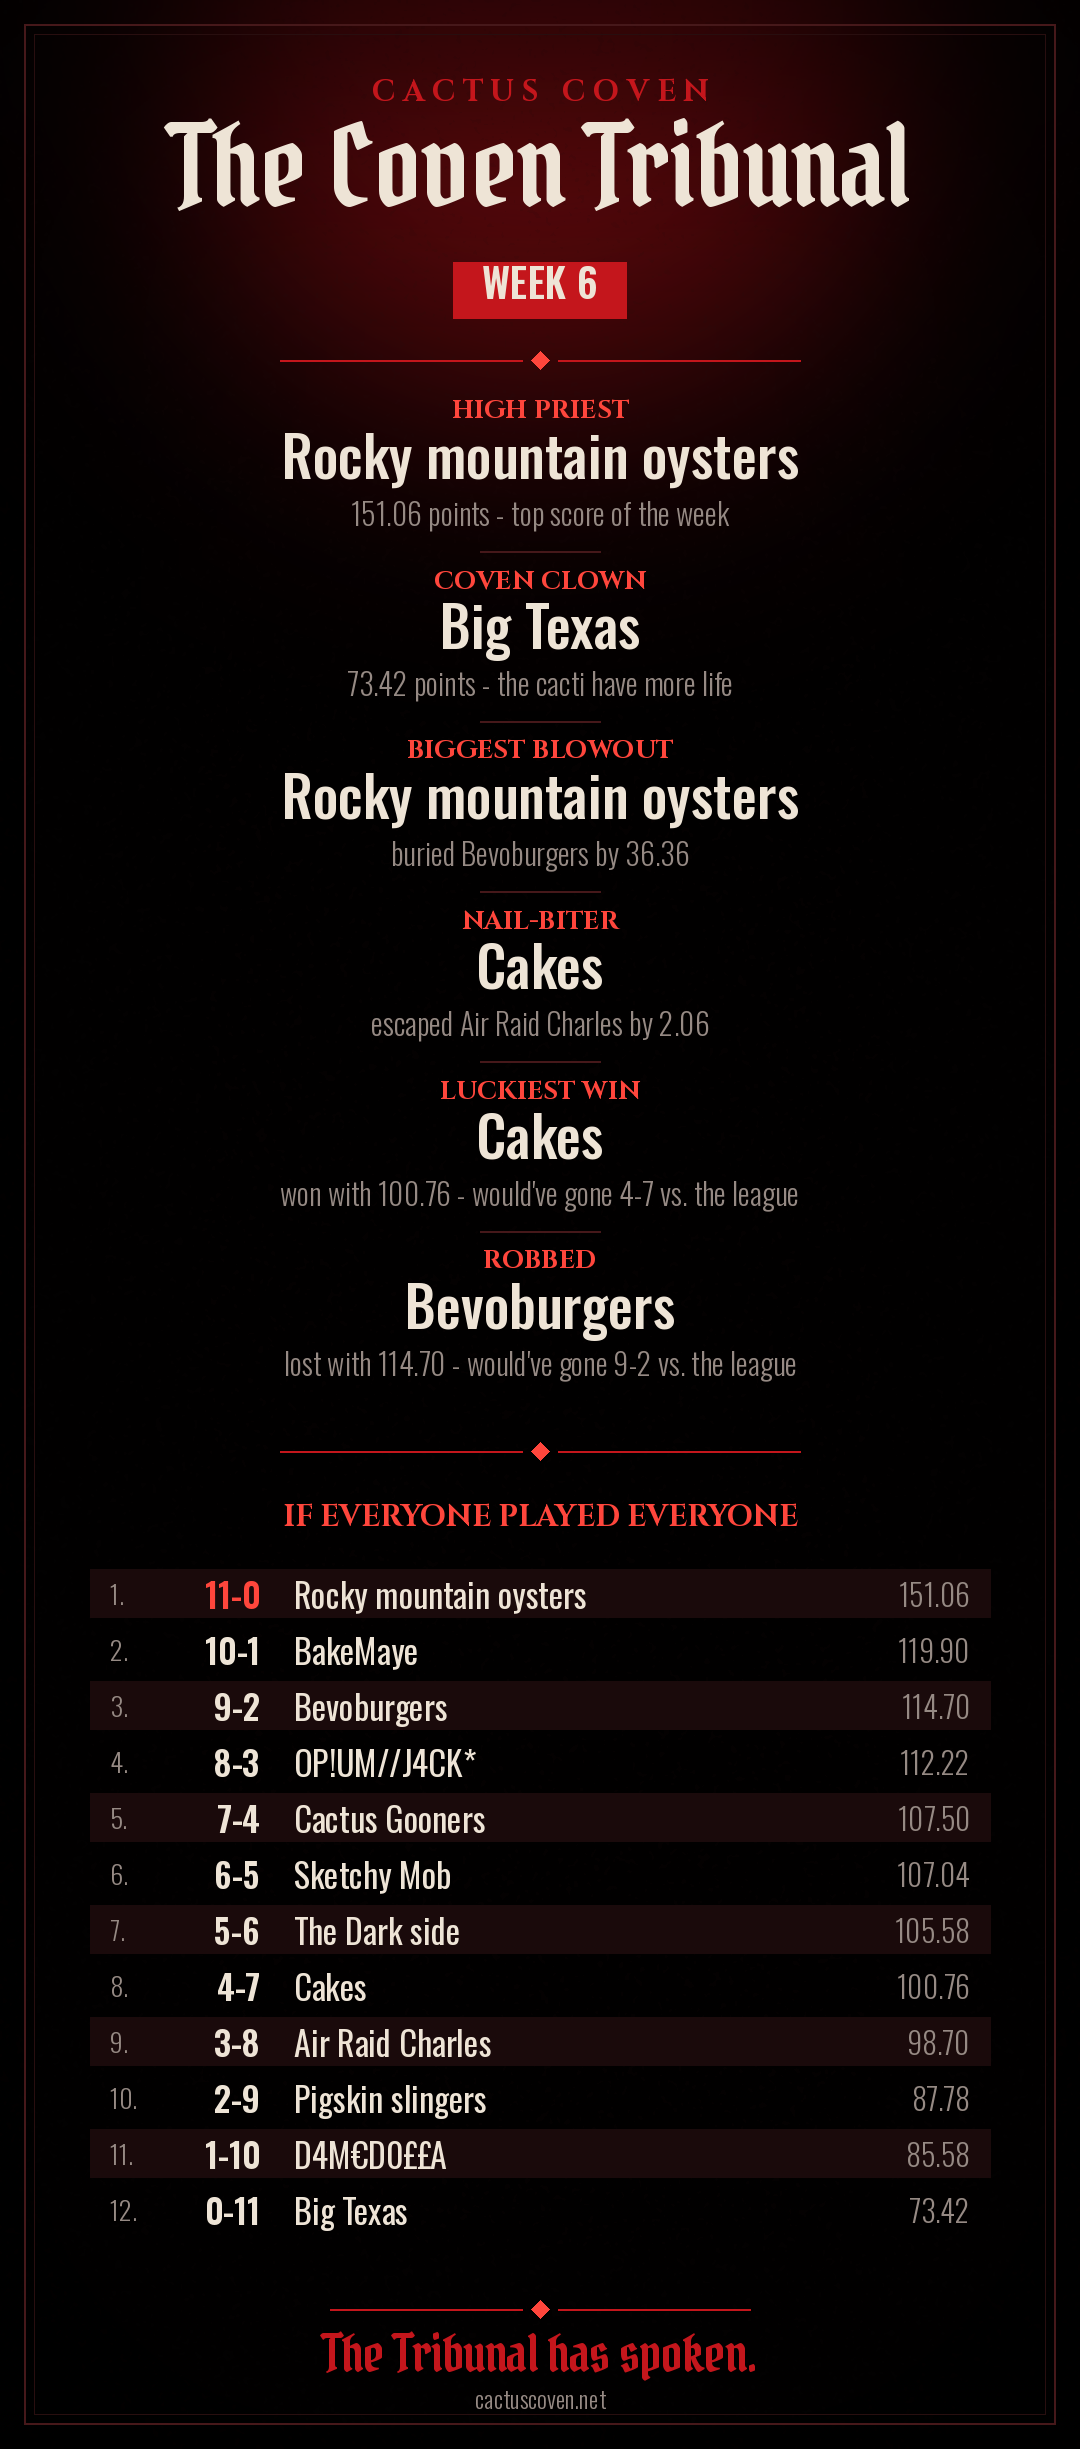
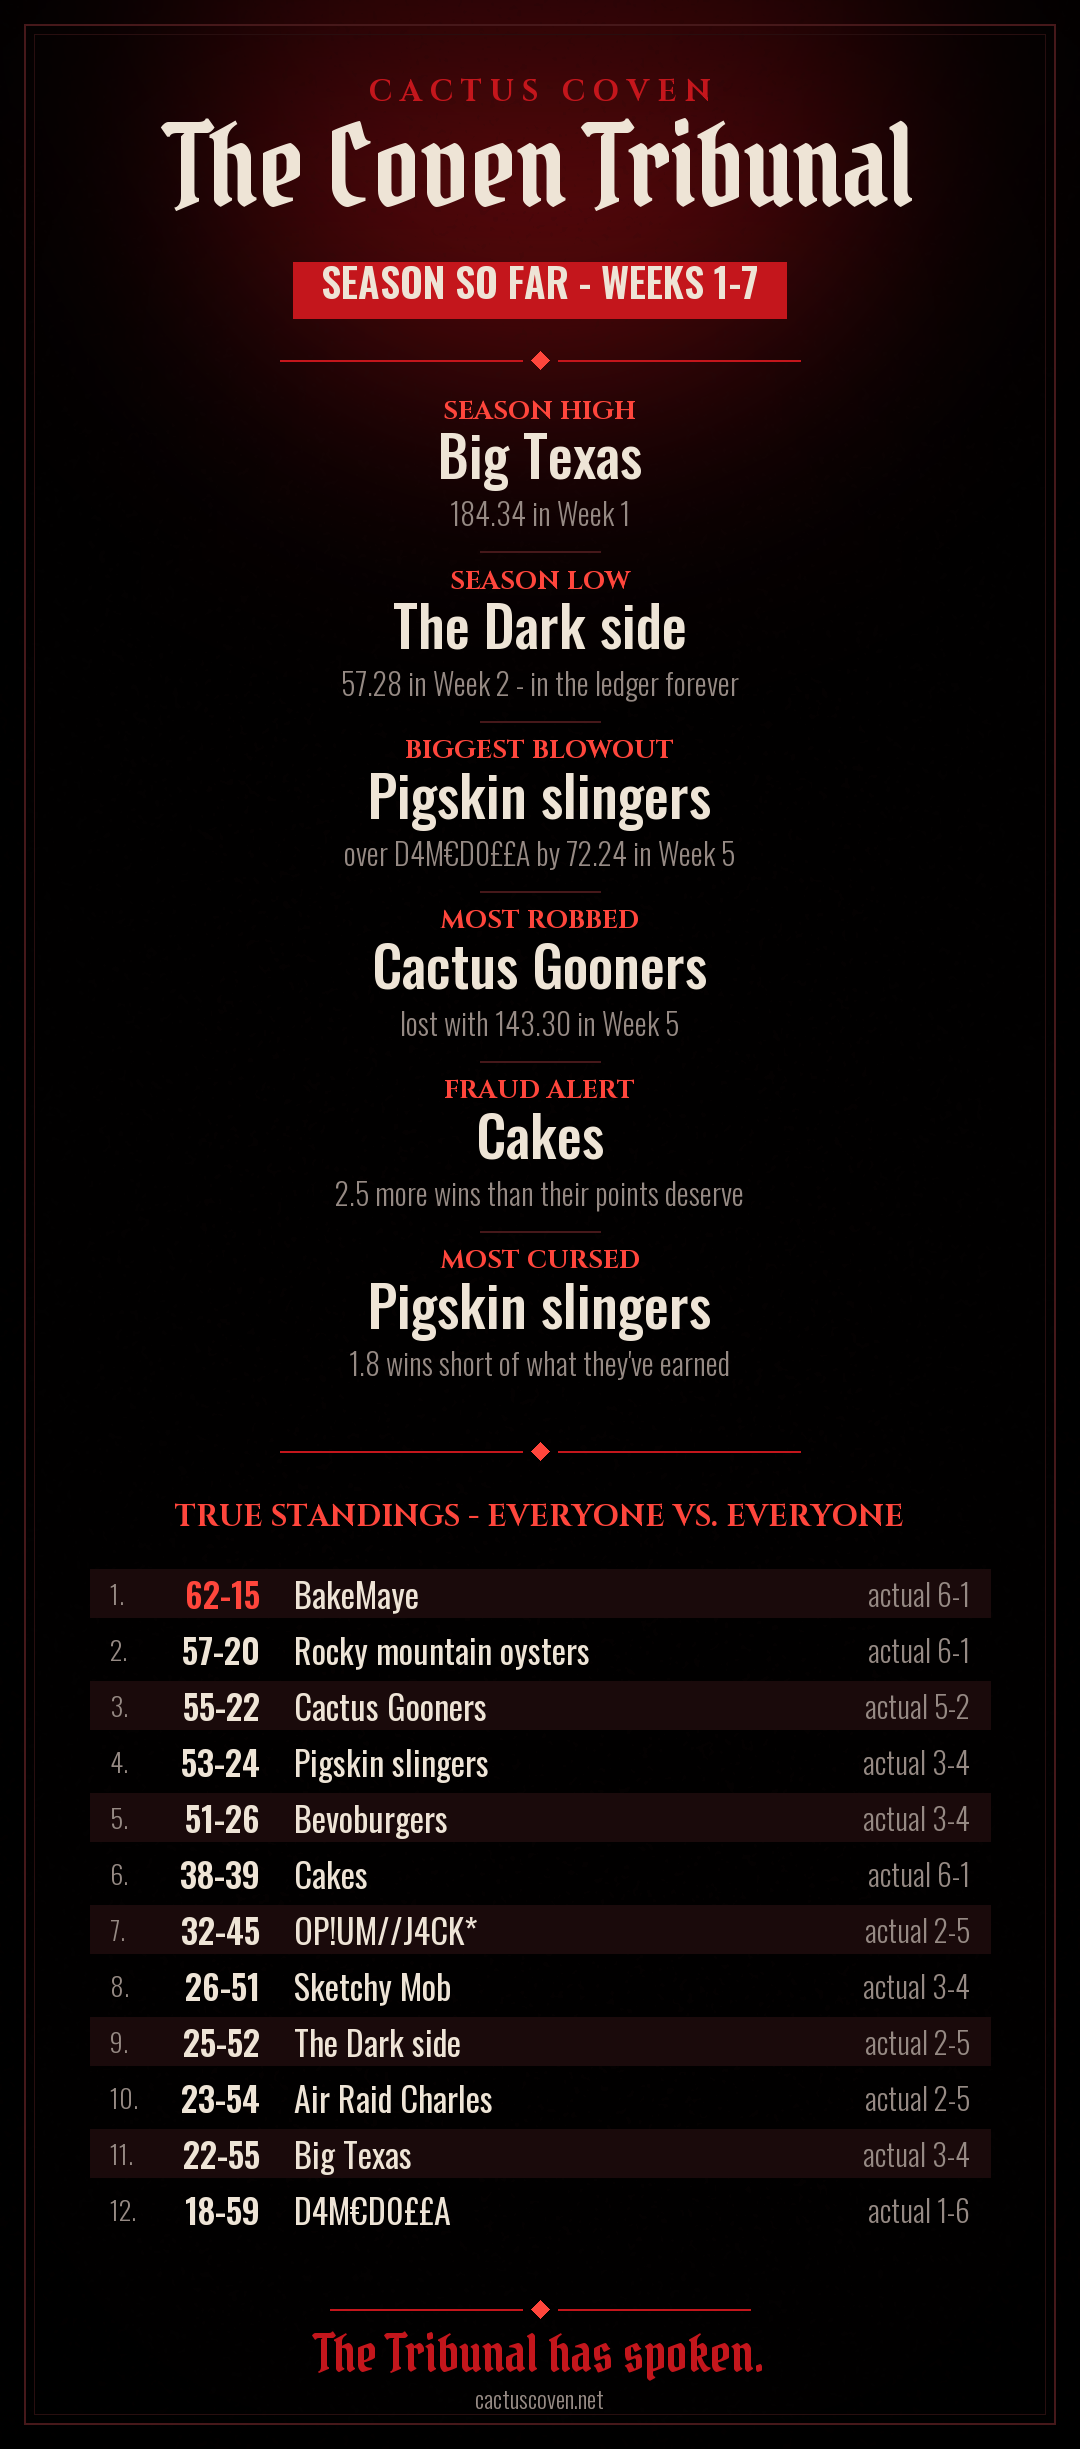
Tribunal: Season So Far - Weeks 1-7

diff --git a/tribunal/index.html b/tribunal/index.html
@@ -4,10 +4,10 @@
   <meta charset="utf-8">
   <meta name="viewport" content="width=device-width, initial-scale=1">
   <title>The Coven Tribunal | Cactus Coven</title>
-  <meta name="description" content="Weekly judgment for the Cactus Coven. Week 6 is in.">
-  <meta property="og:title" content="The Coven Tribunal - Week 6">
+  <meta name="description" content="Weekly judgment for the Cactus Coven. Season So Far - Weeks 1-7 is in.">
+  <meta property="og:title" content="The Coven Tribunal - Season So Far - Weeks 1-7">
   <meta property="og:description" content="The ledger has been read. Judgment follows.">
-  <meta property="og:image" content="https://cactuscoven.net/tribunal/week-6.png">
+  <meta property="og:image" content="https://cactuscoven.net/tribunal/season-so-far.png">
   <meta property="og:url" content="https://cactuscoven.net/tribunal/">
   <meta property="og:type" content="website">
   <meta name="twitter:card" content="summary_large_image">
@@ -54,134 +54,134 @@
   <main>
     <div class="kicker">CACTUS COVEN</div>
     <h1>The Coven Tribunal</h1>
-    <span class="tag">WEEK 6</span>
-    <a href="week-6.png" target="_blank"><img class="latest" src="week-6.png" alt="Week 6 awards"></a>
+    <span class="tag">SEASON SO FAR - WEEKS 1-7</span>
+    <a href="season-so-far.png" target="_blank"><img class="latest" src="season-so-far.png" alt="Season So Far - Weeks 1-7 awards"></a>
 
     <h2>Standings</h2>
-    <p class="sub">Weeks 1-6 &middot; All-Play = record vs. every team, every week &middot; Luck = actual wins minus all-play pace</p>
+    <p class="sub">Weeks 1-7 &middot; All-Play = record vs. every team, every week &middot; Luck = actual wins minus all-play pace</p>
     <div class="tbl">
       <table>
         <thead><tr><th></th><th class="tm">Team</th><th>W-L</th><th>PF</th><th class="wide">PA</th><th>All-Play</th><th>Luck</th><th class="wide">Strk</th></tr></thead>
         <tbody>
         <tr>
           <td class="rk">1</td>
-          <td class="tm">Cakes</td>
-          <td class="rec">6-0</td>
-          <td>707.76</td>
-          <td class="wide">622.28</td>
-          <td>35-31</td>
-          <td class="up">+2.8</td>
-          <td class="wide">W6</td>
+          <td class="tm">Rocky mountain oysters</td>
+          <td class="rec">6-1</td>
+          <td>912.02</td>
+          <td class="wide">832.18</td>
+          <td>57-20</td>
+          <td class="up">+0.8</td>
+          <td class="wide">W5</td>
         </tr>
         <tr>
           <td class="rk">2</td>
-          <td class="tm">Rocky mountain oysters</td>
-          <td class="rec">5-1</td>
-          <td>800.22</td>
-          <td class="wide">725.36</td>
-          <td>49-17</td>
-          <td class="up">+0.5</td>
+          <td class="tm">BakeMaye</td>
+          <td class="rec">6-1</td>
+          <td>905.16</td>
+          <td class="wide">751.52</td>
+          <td>62-15</td>
+          <td class="up">+0.4</td>
           <td class="wide">W4</td>
         </tr>
         <tr>
           <td class="rk">3</td>
-          <td class="tm">BakeMaye</td>
-          <td class="rec">5-1</td>
-          <td>775.32</td>
-          <td class="wide">641.50</td>
-          <td>51-15</td>
-          <td class="up">+0.4</td>
-          <td class="wide">W3</td>
+          <td class="tm">Cakes</td>
+          <td class="rec">6-1</td>
+          <td>814.58</td>
+          <td class="wide">734.08</td>
+          <td>38-39</td>
+          <td class="up">+2.5</td>
+          <td class="wide">L1</td>
         </tr>
         <tr>
           <td class="rk">4</td>
           <td class="tm">Cactus Gooners</td>
-          <td class="rec">4-2</td>
-          <td>784.56</td>
-          <td class="wide">731.10</td>
-          <td>46-20</td>
-          <td class="down">-0.2</td>
-          <td class="wide">L2</td>
+          <td class="rec">5-2</td>
+          <td>900.18</td>
+          <td class="wide">807.32</td>
+          <td>55-22</td>
+          <td class="">+0.0</td>
+          <td class="wide">W1</td>
         </tr>
         <tr>
           <td class="rk">5</td>
-          <td class="tm">Bevoburgers</td>
-          <td class="rec">3-3</td>
-          <td>749.78</td>
-          <td class="wide">699.26</td>
-          <td>46-20</td>
-          <td class="down">-1.2</td>
-          <td class="wide">L2</td>
+          <td class="tm">Pigskin slingers</td>
+          <td class="rec">3-4</td>
+          <td>927.36</td>
+          <td class="wide">906.66</td>
+          <td>53-24</td>
+          <td class="down">-1.8</td>
+          <td class="wide">W1</td>
         </tr>
         <tr>
           <td class="rk">6</td>
-          <td class="tm">Big Texas</td>
-          <td class="rec">3-3</td>
-          <td>662.84</td>
-          <td class="wide">665.46</td>
-          <td>22-44</td>
-          <td class="up">+1.0</td>
+          <td class="tm">Bevoburgers</td>
+          <td class="rec">3-4</td>
+          <td>859.80</td>
+          <td class="wide">829.10</td>
+          <td>51-26</td>
+          <td class="down">-1.6</td>
           <td class="wide">L3</td>
         </tr>
         <tr>
           <td class="rk">7</td>
           <td class="tm">Sketchy Mob</td>
-          <td class="rec">3-3</td>
-          <td>649.74</td>
-          <td class="wide">625.24</td>
-          <td>22-44</td>
-          <td class="up">+1.0</td>
-          <td class="wide">W1</td>
+          <td class="rec">3-4</td>
+          <td>758.80</td>
+          <td class="wide">748.84</td>
+          <td>26-51</td>
+          <td class="up">+0.6</td>
+          <td class="wide">L1</td>
         </tr>
         <tr>
           <td class="rk">8</td>
-          <td class="tm">Pigskin slingers</td>
-          <td class="rec">2-4</td>
-          <td>803.76</td>
-          <td class="wide">797.60</td>
-          <td>43-23</td>
-          <td class="down">-1.9</td>
-          <td class="wide">L1</td>
+          <td class="tm">Big Texas</td>
+          <td class="rec">3-4</td>
+          <td>739.06</td>
+          <td class="wide">781.08</td>
+          <td>22-55</td>
+          <td class="up">+1.0</td>
+          <td class="wide">L4</td>
         </tr>
         <tr>
           <td class="rk">9</td>
           <td class="tm">OP!UM//J4CK*</td>
-          <td class="rec">2-4</td>
-          <td>676.96</td>
-          <td class="wide">722.48</td>
-          <td>31-35</td>
-          <td class="down">-0.8</td>
-          <td class="wide">W2</td>
-        </tr>
-        <tr>
-          <td class="rk">10</td>
-          <td class="tm">D4M€D0££A</td>
-          <td class="rec">1-5</td>
-          <td>594.60</td>
-          <td class="wide">748.36</td>
-          <td>16-50</td>
-          <td class="down">-0.5</td>
-          <td class="wide">L2</td>
-        </tr>
-        <tr>
-          <td class="rk">11</td>
-          <td class="tm">Air Raid Charles</td>
-          <td class="rec">1-5</td>
-          <td>591.72</td>
-          <td class="wide">660.48</td>
-          <td>17-49</td>
-          <td class="down">-0.5</td>
+          <td class="rec">2-5</td>
+          <td>782.34</td>
+          <td class="wide">833.90</td>
+          <td>32-45</td>
+          <td class="down">-0.9</td>
           <td class="wide">L1</td>
         </tr>
         <tr>
-          <td class="rk">12</td>
-          <td class="tm">The Dark side</td>
-          <td class="rec">1-5</td>
-          <td>591.26</td>
-          <td class="wide">749.40</td>
-          <td>18-48</td>
-          <td class="down">-0.6</td>
+          <td class="rk">10</td>
+          <td class="tm">Air Raid Charles</td>
+          <td class="rec">2-5</td>
+          <td>703.00</td>
+          <td class="wide">766.60</td>
+          <td>23-54</td>
+          <td class="down">-0.1</td>
           <td class="wide">W1</td>
+        </tr>
+        <tr>
+          <td class="rk">11</td>
+          <td class="tm">The Dark side</td>
+          <td class="rec">2-5</td>
+          <td>702.68</td>
+          <td class="wide">854.78</td>
+          <td>25-52</td>
+          <td class="down">-0.3</td>
+          <td class="wide">W2</td>
+        </tr>
+        <tr>
+          <td class="rk">12</td>
+          <td class="tm">D4M€D0££A</td>
+          <td class="rec">1-6</td>
+          <td>700.72</td>
+          <td class="wide">859.64</td>
+          <td>18-59</td>
+          <td class="down">-0.6</td>
+          <td class="wide">L3</td>
         </tr>
         </tbody>
       </table>
@@ -229,6 +229,10 @@
 
     <h2>The Ledger</h2>
     <div class="grid">
+      <a class="card" href="week-6.png" target="_blank">
+        <img src="week-6.png" alt="Week 6" loading="lazy">
+        <span>Week 6</span>
+      </a>
       <a class="card" href="week-5.png" target="_blank">
         <img src="week-5.png" alt="Week 5" loading="lazy">
         <span>Week 5</span>
